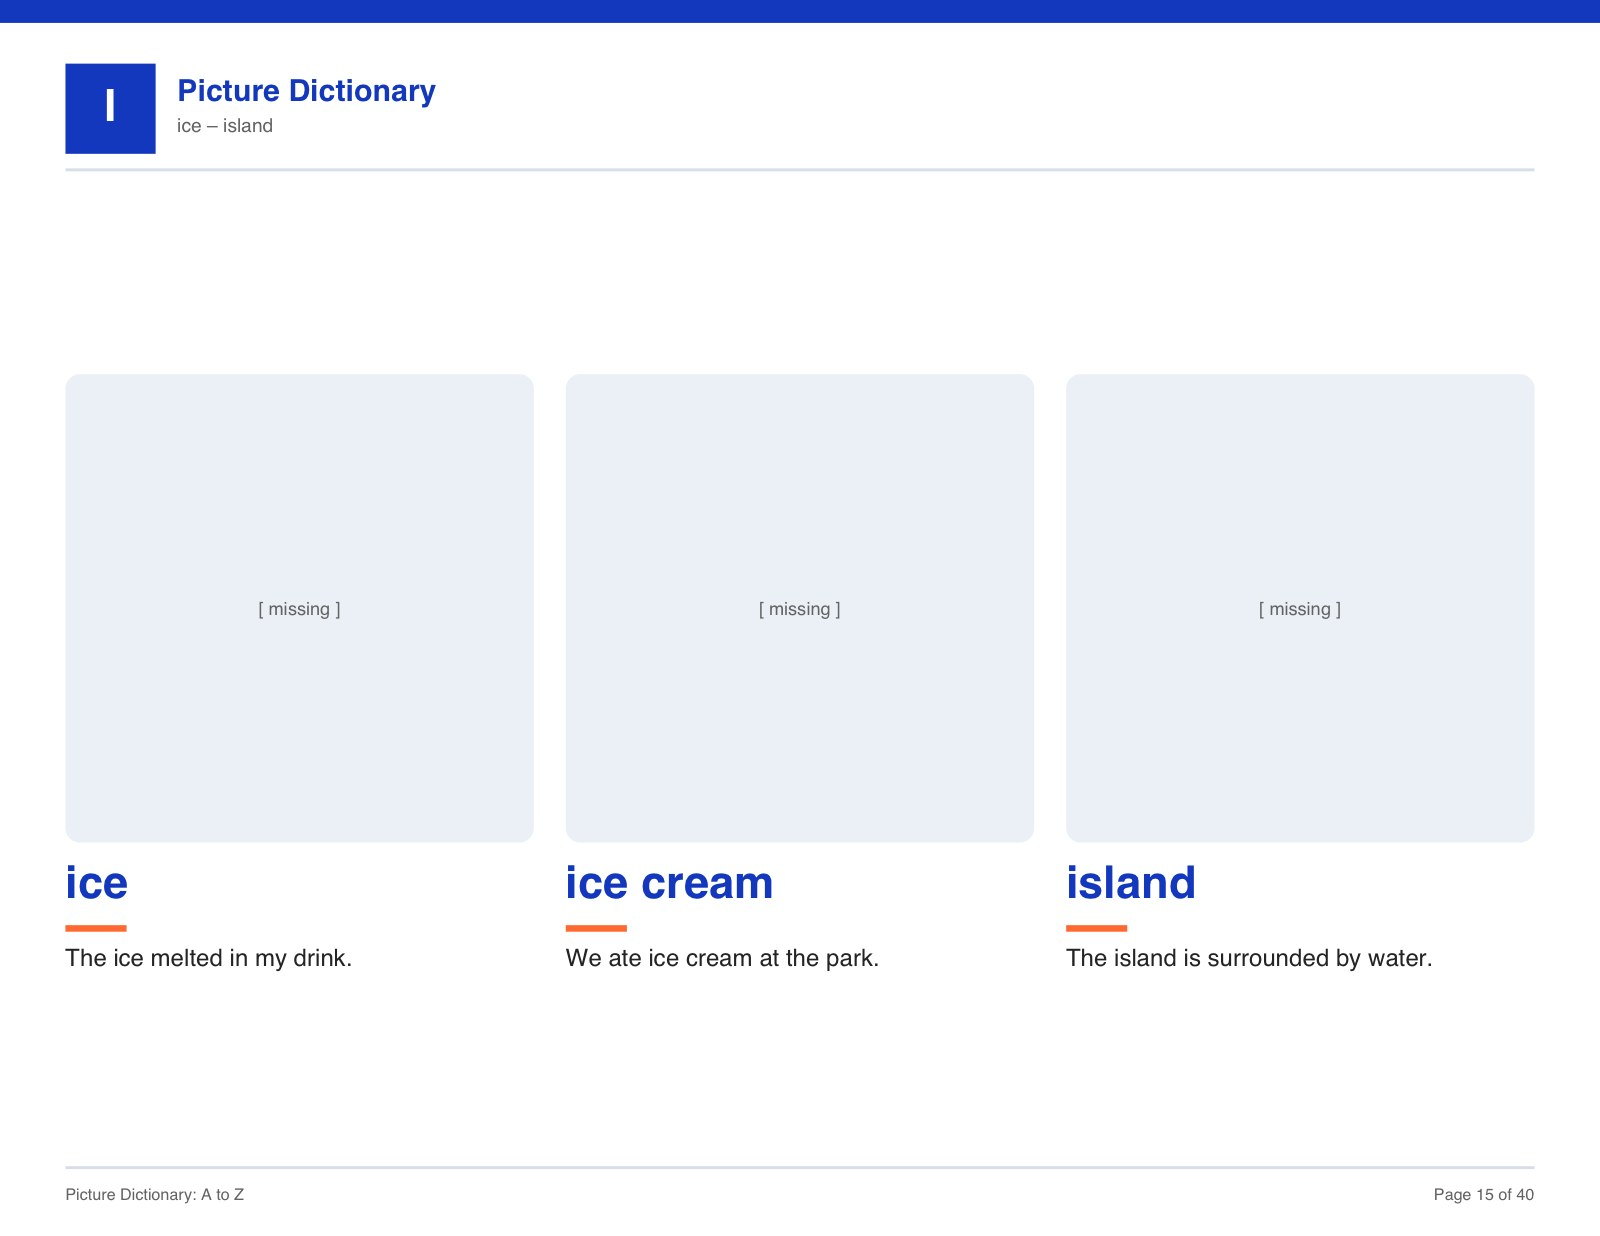
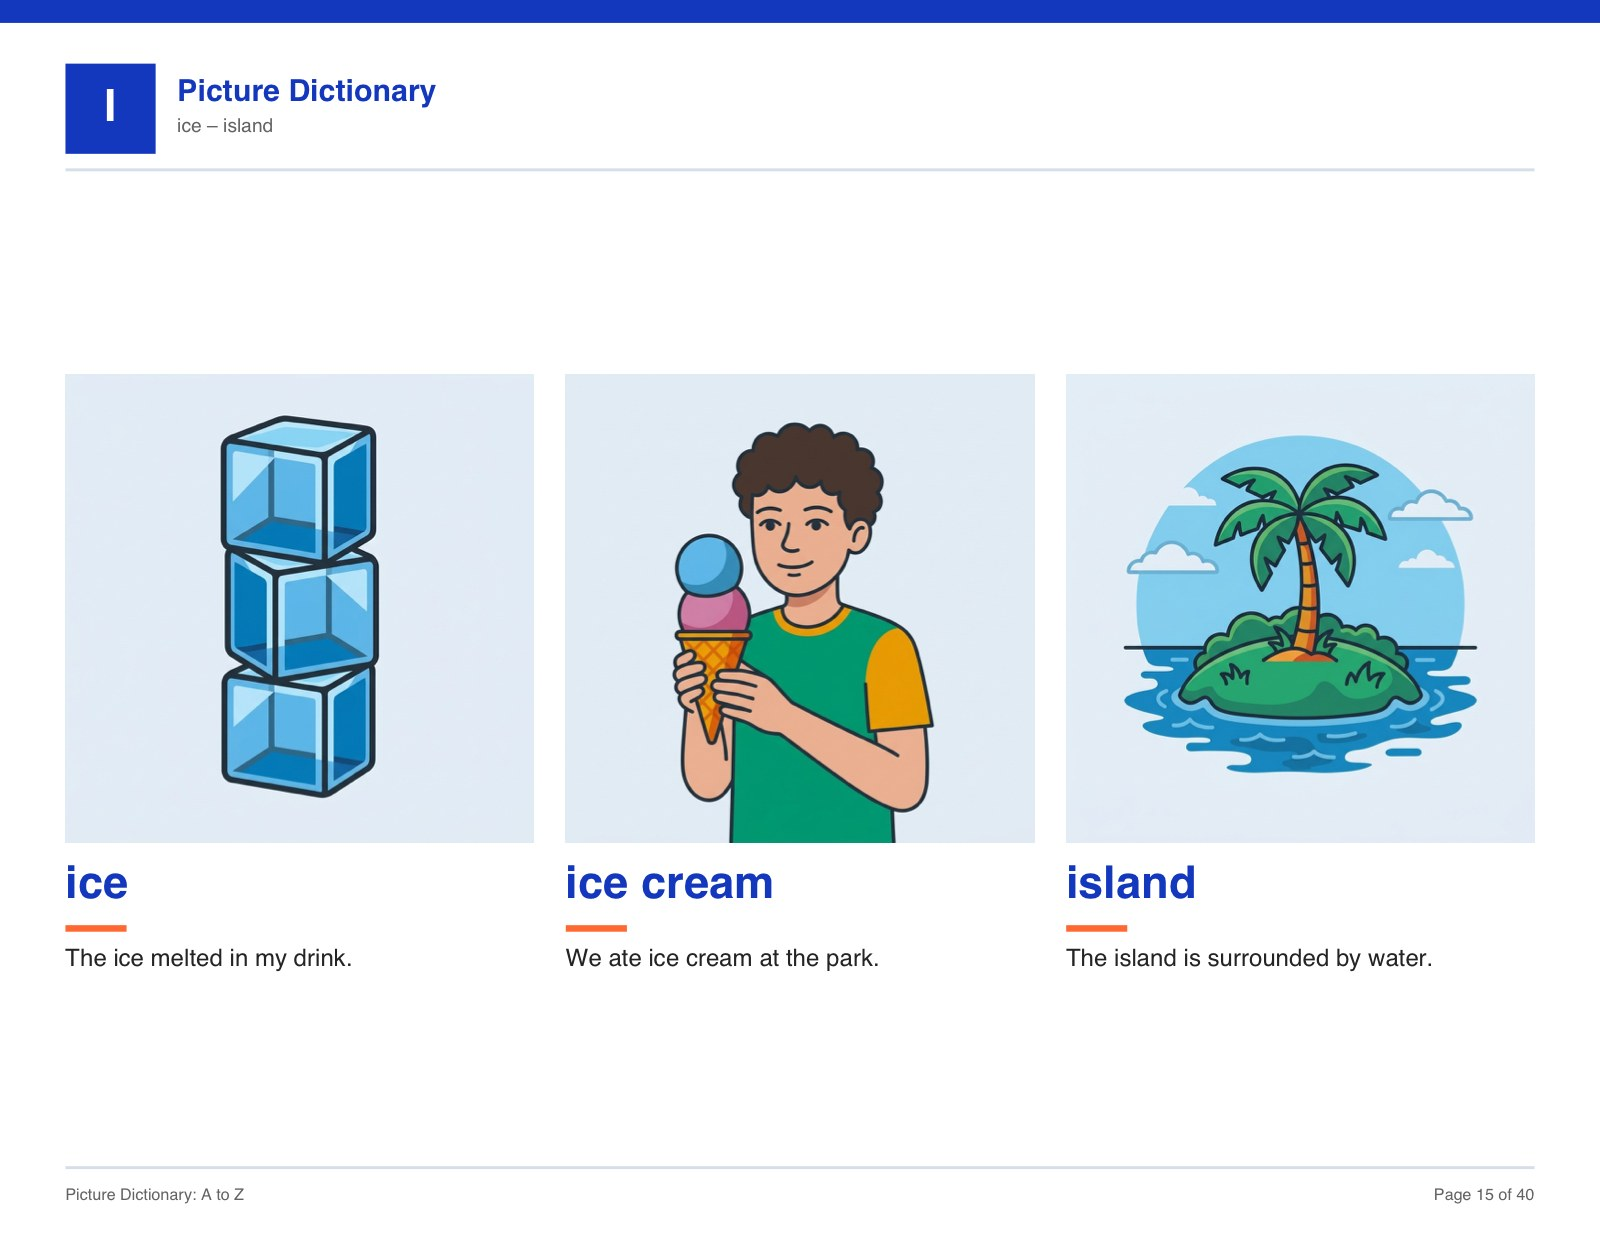
Add illustrations through letter M

Changed region(s): [[0.6875, 0.3382, 0.9375, 0.6456], [0.4062, 0.3382, 0.5938, 0.7071], [0.125, 0.3382, 0.25, 0.6456]]

diff --git a/prompts/scenes.py b/prompts/scenes.py
@@ -94,10 +94,15 @@ SCENES = {
     "feet": "a pair of bare feet standing on the floor, seen from above",
     "fence": "a wooden picket fence running across the frame",
     "field": "a wide green grass field with a goal at the far end",
-    "finger": "a hand with one index finger pointing upward",
+    # An index finger raised on a closed fist is the ASL number 1 — an isolated
+    # handshape reads as a sign to this audience. Keep the finger in context,
+    # doing something, so it reads as anatomy rather than as language.
+    "finger": "a hand resting on an open book, one index finger pointing down at a picture on the page, the pointing finger the clear focus",
     "fire": "a campfire with orange flames over stacked logs",
     "fish": "a single silver and orange fish swimming",
-    "flag": "a rectangular flag on a pole, waving in the wind",
+    # An unspecified flag comes back as a rainbow one, which teaches a specific
+    # symbol under a generic word. Describe an invented, meaningless design.
+    "flag": "a plain blue rectangular flag with one large white star in the middle, on a tall pole, waving in the wind",
     "floor": "a wooden floor seen at an angle with a broom resting on it",
     "flower": "a single yellow flower with a green stem and two leaves",
     "forest": "a group of tall green trees standing close together",
@@ -105,19 +110,27 @@ SCENES = {
     "game": "a board game on a table with dice and coloured playing pieces",
     "garden": "a garden bed with tomato plants and a watering can",
     "ghost": "a friendly white cartoon ghost floating, with a wavy lower edge",
-    "giant": "a very tall friendly giant standing beside a small tree for scale",
+    # Scale needs a human reference, not a tree — a person beside a shrub just
+    # reads as someone gardening.
+    "giant": "an enormous friendly giant filling the frame, with two tiny ordinary people standing at his feet reaching only to his ankle",
     "gift": "a wrapped gift box with a large ribbon bow",
     "glass": "a single clear drinking glass filled with water",
     "gold": "a small pile of shiny gold coins",
     "grandfather": "an older man with grey hair and glasses, smiling warmly",
     "grandmother": "an older woman with grey hair, smiling warmly",
-    "grass": "a close view of green grass blades",
+    # Left open, the model adds a child among the blades and the scale goes
+    # surreal — grass taller than a person. Say plainly that nothing else is in it.
+    "grass": "a close view of a patch of green grass blades and nothing else, no people and no animals",
     "gym": "a school gymnasium with a basketball hoop and a polished wooden floor",
     # H
     "hair": "a teenager brushing their long hair with a hairbrush",
     "halloween": "a carved orange pumpkin glowing, with a small bat above it",
-    "hand": "a single open hand, palm facing the viewer, fingers spread naturally",
-    "head": "a teenager's head and shoulders seen straight on",
+    # A spread open palm facing the viewer is the ASL 5 handshape. Anchor the
+    # hand to an arm and a surface so it reads as anatomy, not language.
+    "hand": "a teenager's hand and forearm resting palm-up and relaxed on a table top, the open hand the clear focus",
+    # "head and shoulders straight on" is the same picture as `face`. The hat
+    # gives the head a top and a shape of its own.
+    "head": "a teenager wearing a woolly hat, seen in side profile so the whole shape of the head is clear",
     "heart": "a simple red heart shape",
     "hide": "a teenager crouching behind a door, peeking around its edge",
     "hill": "a green rounded hill with a path winding up it",
@@ -146,7 +159,7 @@ SCENES = {
     "lake": "a calm blue lake with trees along the far shore",
     "lamp": "a table lamp switched on and glowing",
     "laugh": "a teenager laughing with their head tilted back",
-    "leg": "a teenager's leg from hip to foot, standing",
+    "leg": "a teenager standing seen from the waist down, wearing matching sports shorts and trainers, both legs straight and fully visible",
     "letter": "a sealed white envelope with a stamp in the corner",
     "library": "tall bookshelves full of books with a reading table in front",
     "light": "a glowing light bulb",

diff --git a/gen_prompts.py b/gen_prompts.py
@@ -40,7 +40,10 @@ NEG_COMMON = (
     "background. No chibi or big-head proportions. No sign language or "
     "fingerspelling handshapes. No deformed hands or extra fingers. No "
     "exaggerated shocked or goofy expressions. No clip-art borders. Do not "
-    "place the subject on a wooden board or tray unless described."
+    "place the subject on a wooden board or tray unless described. Never draw "
+    "colour swatches, colour chips, palette strips or style-guide samples — the "
+    "palette above describes how to colour the picture, it is not part of the "
+    "picture. Never add a caption, title or label bar above or below the art."
 )
 NEG_NO_TEXT = ("No text, letters, numbers, labels, watermarks or signatures "
                "anywhere in the image. " + NEG_COMMON)
